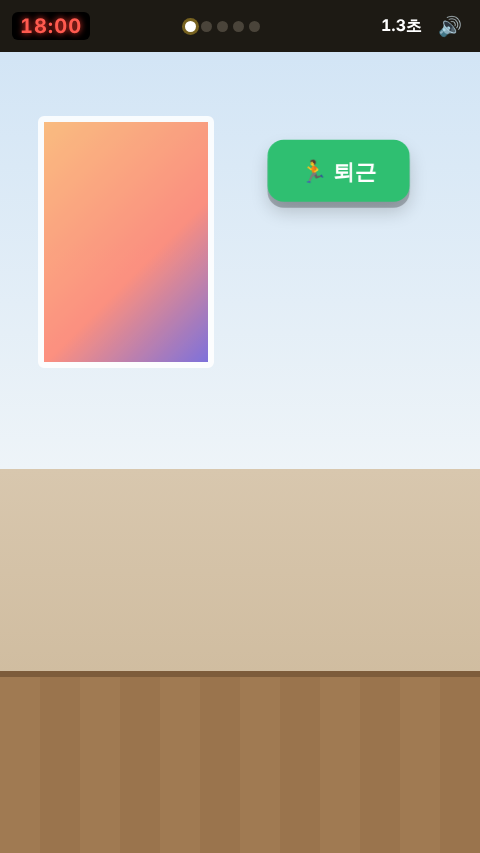
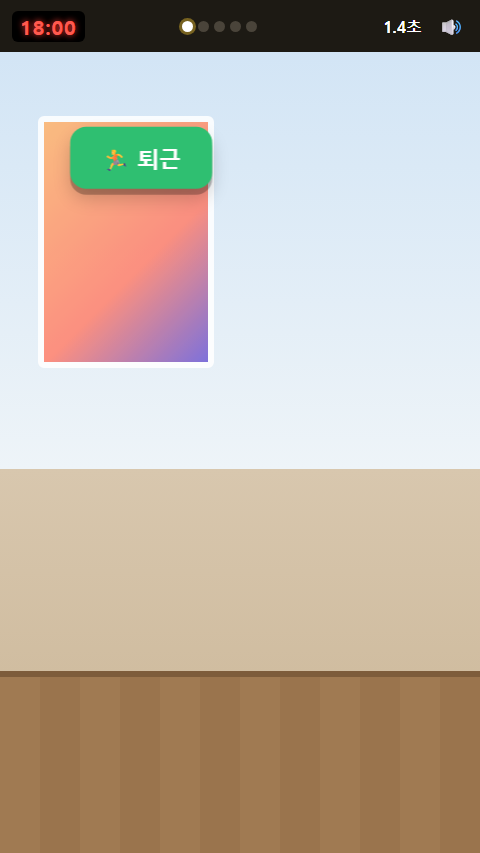
item: fix review blockers (winter-snack-ladder type sizes, bungeoppang-budget leading zeros, spec order); refresh thumbs
Claude-Session: https://claude.ai/code/session_01SMaRuH9FbRJjM42GqsrKyL

diff --git a/play/items/winter-snack-ladder/index.html b/play/items/winter-snack-ladder/index.html
@@ -13,8 +13,9 @@ h1{margin:0;font-size:22px;line-height:1.2;text-align:center}
 h2{margin:0;font-size:18px;line-height:1.25}
 p{margin:0}
 .sub{font-size:14px;line-height:1.35;text-align:center}
-#main{min-height:0;overflow-y:auto;display:flex;flex-direction:column;gap:8px;padding:2px}
-#act{display:grid;gap:8px}
+#main{min-height:0;overflow-y:auto;display:flex;flex-direction:column;gap:8px;padding:6px}
+footer,#act{display:grid;gap:8px}
+#act:empty{display:none}
 .row{display:grid;grid-template-columns:1fr 1fr;gap:8px}
 button{font:inherit;color:inherit;touch-action:manipulation;cursor:pointer}
 .btn{min-height:46px;padding:8px 12px;border-radius:14px;border:3px solid #39271F;background:#FFFCF5;font-size:16px;font-weight:700;line-height:1.2}
@@ -56,23 +57,24 @@ button:focus-visible,textarea:focus-visible{outline:4px solid #315A4A;outline-of
 textarea{width:100%;min-height:110px;flex:1 1 auto;border:3px solid #39271F;border-radius:12px;padding:10px;font:inherit;font-size:16px;background:#FFFCF5;color:#39271F;resize:none}
 h2:focus{outline:none}
 @media(max-height:620px){
-.col{gap:4px;padding:6px 10px}
-h1{font-size:18px}
+.col{gap:4px;padding:6px 12px}
 h2{font-size:16px}
 #main{gap:4px}
 .res #lad{flex-basis:44px;min-height:44px}
 .slots{gap:4px}
-.slot{min-height:38px;font-size:11px;padding:2px 1px}
-.slot svg{width:22px;height:22px}
+.slot{min-height:38px;font-size:14px;padding:2px 1px}
+.slot svg{width:20px;height:20px}
 .card{gap:8px;padding:4px 8px;border-width:2px}
-.card .ill{width:44px;height:44px}
+.card .ill{width:40px;height:40px}
 .card .nm{font-size:16px}
-.card .cp{font-size:12px;line-height:1.25;margin-top:2px}
-.pill{font-size:12px;padding:1px 10px}
+.card .cp{line-height:1.25;margin-top:2px}
+.pill{padding:1px 10px}
+.tg{gap:6px;font-size:16px}
+.tg svg{width:28px;height:28px}
 .btn{min-height:44px;padding:4px 10px}
 .btn.big{min-height:44px;font-size:16px}
-#act{gap:4px}
-#st{min-height:16px;font-size:12px}
+footer,#act{gap:4px}
+#st{min-height:2.7em;line-height:1.35}
 .bag{min-height:48px;height:48px}
 }
 @media(prefers-reduced-motion:reduce){*{animation:none!important;transition:none!important}}
@@ -82,7 +84,7 @@ h2{font-size:16px}
 <div id="app"><div class="col">
 <header><h1 id="ttl"></h1></header>
 <main id="main"></main>
-<footer id="act"></footer>
+<footer><div id="act"></div><div id="st" role="status" aria-live="polite"></div></footer>
 </div></div>
 <script>
 (function(){
@@ -143,11 +145,11 @@ var DUR=1600;
 var cands=loadCands(),view='ready',prev='ready',draft=[],draw=null;
 var elapsed=0,last=0,raf=0,copying=false,ct=0;
 var $=function(s){return document.querySelector(s)};
-var main=$('#main'),act=$('#act');
+var main=$('#main'),act=$('#act'),status=$('#st');
 $('#ttl').textContent=L.appTitle;
 var rmq=window.matchMedia?matchMedia('(prefers-reduced-motion: reduce)'):{matches:false};
 
-function setStatus(t){clearTimeout(ct);var s=$('#st');if(s)s.textContent=t||''}
+function setStatus(t){clearTimeout(ct);status.textContent=t||''}
 
 function startDraw(bag){
   if(view!=='ready'||bag<0||bag>=cands.length)return;
@@ -248,7 +250,7 @@ function render(focus){
   var m='',a='';
   if(view==='ready'||view==='draw'){
     m='<p class="sub">'+(view==='ready'?L.readyHint:L.drawing)+'</p>';
-    m+='<p class="sub">'+(view==='ready'?f(L.candidateSummary,{names:cands.map(function(c){return L.names[c]}).join(' · ')}):'')+'</p>';
+    if(view==='ready')m+='<p class="sub">'+f(L.candidateSummary,{names:cands.map(function(c){return L.names[c]}).join(' · ')})+'</p>';
     m+=bagsHtml()+'<div id="lad"></div>'+slotsHtml();
     if(view==='ready')a=btn('edit',L.changeSnacks);
   }else if(view==='result'){
@@ -265,7 +267,7 @@ function render(focus){
   }
   main.className=view==='result'?'res':'';
   main.innerHTML=m;
-  act.innerHTML=a+'<div id="st" role="status" aria-live="polite"></div>';
+  act.innerHTML=a;
   if(view==='edit')syncEdit();
   if(view==='copy')$('#ta').value=shareText();
   ladder();

diff --git a/play/items/bungeoppang-budget/index.html b/play/items/bungeoppang-budget/index.html
@@ -153,7 +153,7 @@ function parse(s,max,rk){
  if(s.length>12)return{e:'invalidInteger'};
  s=s.trim();
  if(!s)return{e:'required'};
- if(!(/^(0|[1-9]\d*)$/.test(s)||/^[1-9]\d{0,2}(,\d{3})+$/.test(s)))return{e:'invalidInteger'};
+ if(!(/^\d+$/.test(s)||/^[1-9]\d{0,2}(,\d{3})+$/.test(s)))return{e:'invalidInteger'};
  var n=+s.replace(/,/g,'');
  if(n<100||n>max)return{e:rk};
  if(n%100)return{e:'invalidStep'};
@@ -181,7 +181,7 @@ if(!demo){try{
 }catch(e){}}
 var vals={budget:'3000',red:String(saved.red),custard:String(saved.custard)};
 if(demo)vals={budget:'3000',red:'1000',custard:'1000'};
-var composing={},touched={},sel=0,screen='edit',cur=null,busy={save:false,copy:false};
+var composing={},touched={},sel=0,screen='edit',cur=null,busy={save:false,copy:null};
 var IDS=['budget','red','custard'];
 var SPEC={budget:[30000,'budgetRange'],red:[10000,'priceRange'],custard:[10000,'priceRange']};
 
@@ -287,6 +287,7 @@ function markCombos(){
 }
 function show(sc){
  screen=sc;
+ if(sc!=='result')busy.copy=null;
  $('editScreen').hidden=sc!=='edit';$('resultScreen').hidden=sc!=='result';
  $('intro').hidden=sc!=='edit';
  $('editScreen').style.display=sc==='edit'?'contents':'none';
@@ -370,16 +371,21 @@ function legacyCopy(txt){
  ta.remove();return ok;
 }
 $('copyBtn').addEventListener('click',function(){
- if(busy.copy)return;
- busy.copy=true;setStatus(t('copying'));
+ if(screen!=='result'||busy.copy)return;
+ var request=busy.copy={};
+ setStatus(t('copying'));
  var txt=shareText(snapshot());
- function ok(){busy.copy=false;setStatus(t('copied'),false,true);$('copyBtn').focus()}
- function fail(){
-  busy.copy=false;setStatus('');
+ function ok(){
+  if(busy.copy!==request)return;
+  busy.copy=null;setStatus(t('copied'),false,true);$('copyBtn').focus();
+ }
+ function fallback(){
+  if(busy.copy!==request)return;
+  if(legacyCopy(txt)){ok();return}
+  busy.copy=null;setStatus('');
   $('fbText').value=txt;$('fb').hidden=false;
   $('fbText').focus();$('fbText').select();
  }
- function fallback(){legacyCopy(txt)?ok():fail()}
  try{
   if(navigator.clipboard&&navigator.clipboard.writeText)navigator.clipboard.writeText(txt).then(ok,fallback);
   else fallback();

diff --git a/pipeline/jobs/2026-11-21-bungeoppang-budget/02-idea.md b/pipeline/jobs/2026-11-21-bungeoppang-budget/02-idea.md
@@ -158,7 +158,7 @@ Show the empty-state message and shortfall. Do not suggest a zero-pastry bag as 
 |---|---|
 | 3,000 / 1,000 / 1,000 | Ranked combinations: `(2,1)`, `(1,2)`, `(3,0)`; each costs 3,000 |
 | 3,000 / 700 / 1,000 | First combination `(4,0)`; total 2,800; left 200; quantity outranks balance |
-| 1,500 / 1,000 / 1,500 | `(1,0)` precedes `(0,1)`; same count and balance, but more money remains |
+| 1,500 / 1,000 / 1,500 | `(0,1)` precedes `(1,0)` because count and balance tie and it leaves ₩0 versus ₩500 |
 | 500 / 1,000 / 1,500 | EMPTY; shortfall 500 |
 | 100 / 100 / 100 | Two combinations only: `(1,0)`, `(0,1)` |
 | 30,000 / 100 / 100 | First combination `(150,150)`; total 30,000; left 0 |
@@ -489,7 +489,7 @@ npm run qa -- --thumbs
 
 Acceptance requires:
 
-- Every reference calculation above produces the specified result.
+- Every reference calculation above produces the specified result, including the lower remaining amount first when count and balance tie.
 - Both languages work at 320 × 480 and desktop sizes without page overflow.
 - The default result is available immediately and requires at most one activation to open.
 - Touch, pointer and keyboard users can edit, select, copy and return to the editor.
